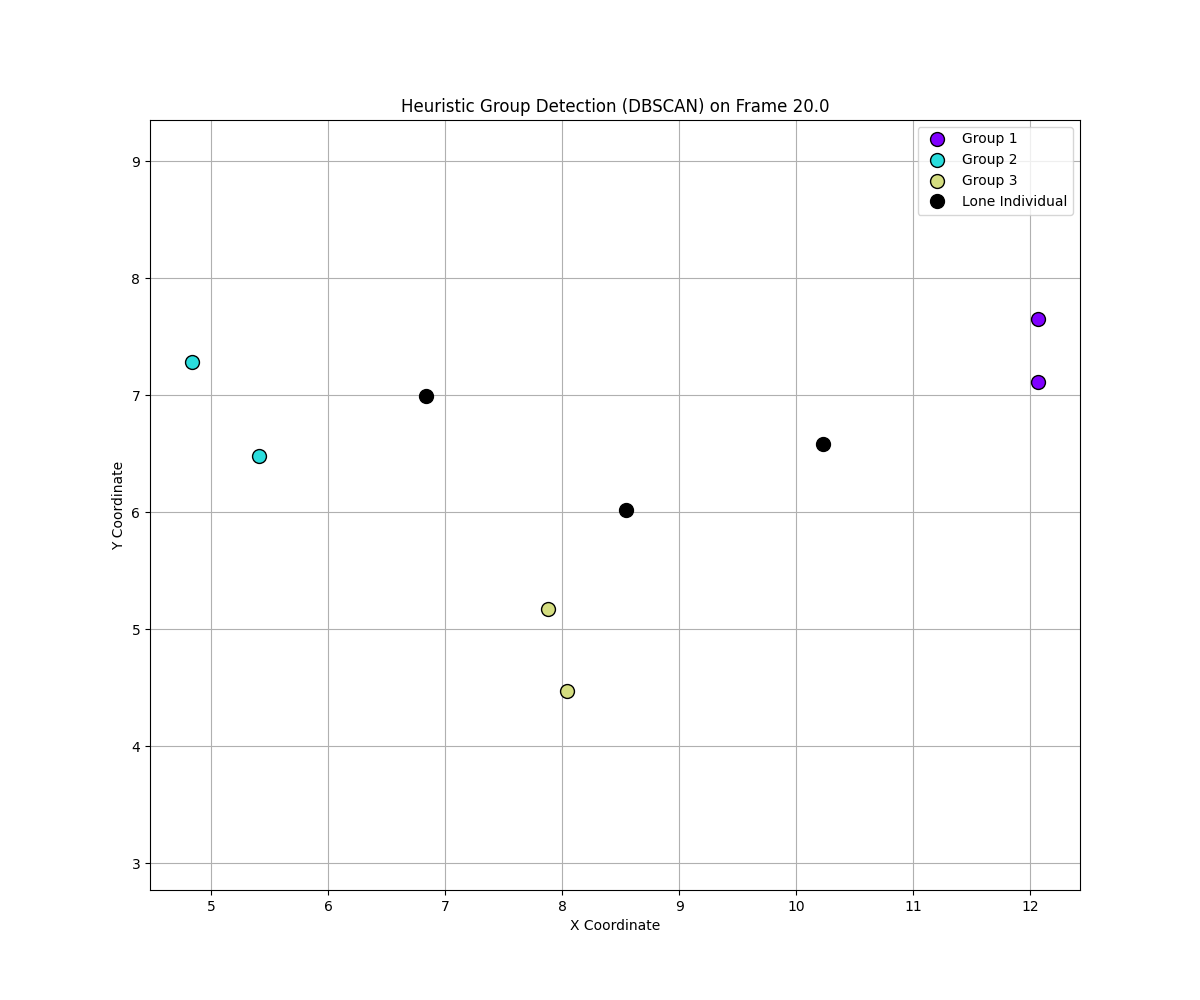
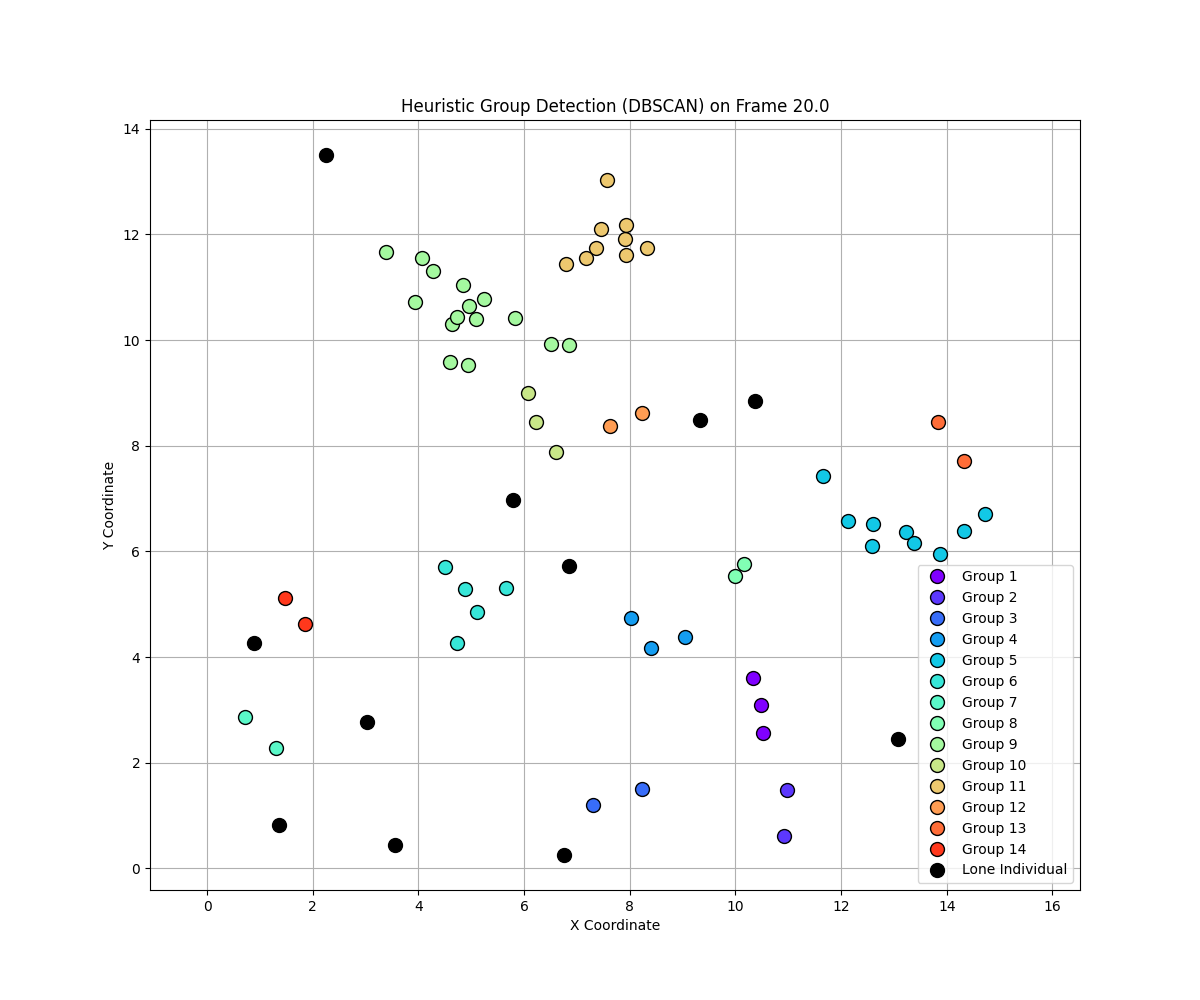
generated new plots for group detection

diff --git a/group_detection.py b/group_detection.py
@@ -95,7 +95,7 @@ if __name__ == '__main__':
         
         # --- 2. Pick a Frame and Get Data ---
         # Let's pick a frame we know is busy from the previous plot
-        target_frame_id = 70.0 
+        target_frame_id = 20.0 
         ped_coords = get_frame_data(raw_data, target_frame_id)
         
         if len(ped_coords) == 0:
